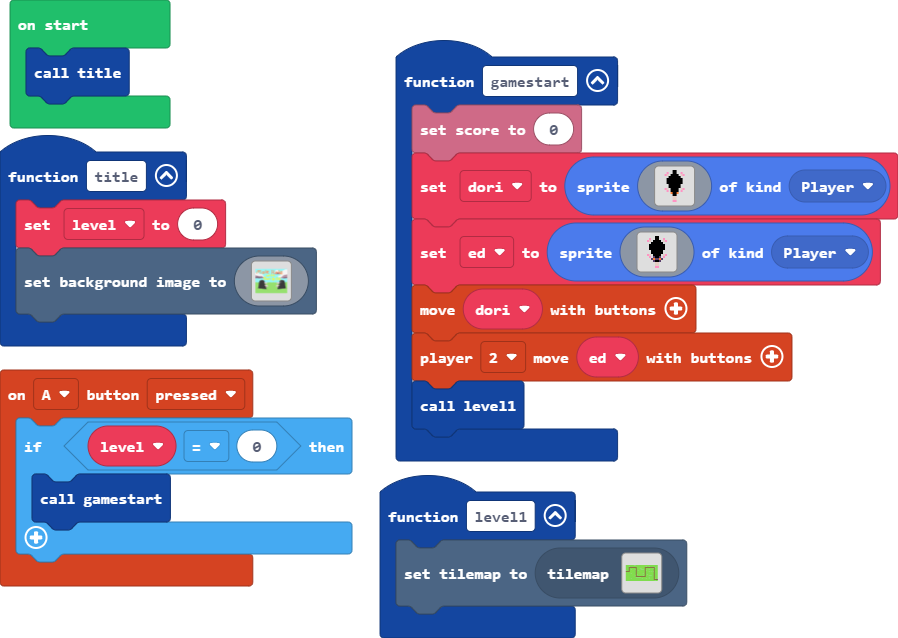
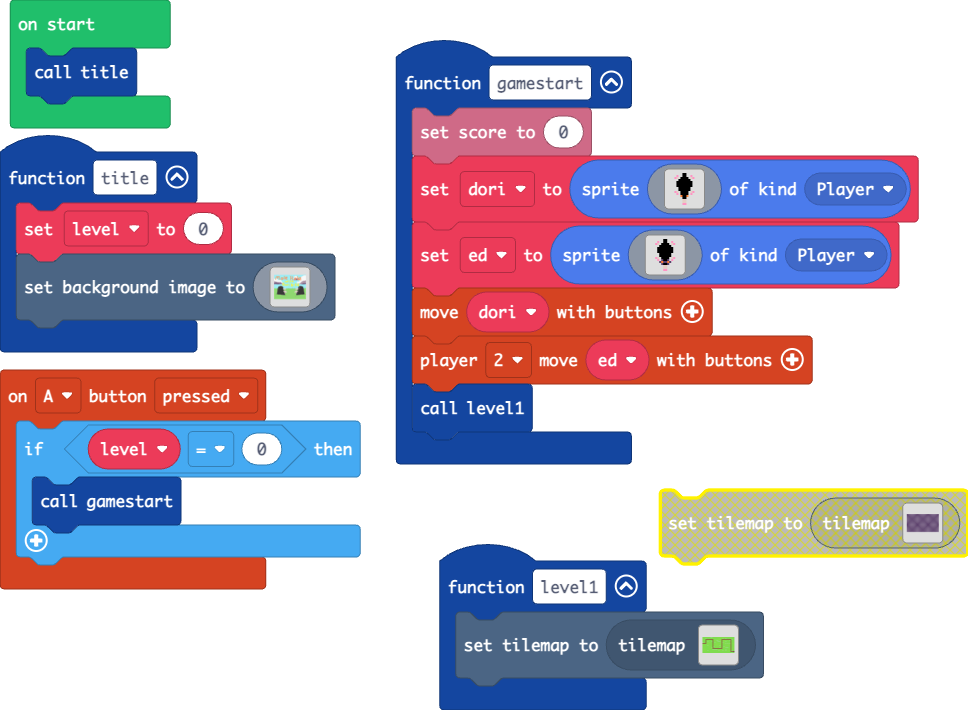
Update main.blocks, tilemap.g.jres, tilemap.g.ts

diff --git a/tilemap.g.ts b/tilemap.g.ts
@@ -20,28 +20,51 @@ namespace myTiles {
     export const tile9 = image.ofBuffer(hex``);
     //% fixedInstance jres blockIdentity=images._tile
     export const tile8 = image.ofBuffer(hex``);
+    //% fixedInstance jres blockIdentity=images._tile
+    export const tile10 = image.ofBuffer(hex``);
+    //% fixedInstance jres blockIdentity=images._tile
+    export const tile11 = image.ofBuffer(hex``);
 
     helpers._registerFactory("tilemap", function(name: string) {
         switch(helpers.stringTrim(name)) {
             case "level1":
[1 lines of base64/hex data omitted]
-................................
-................................
-................................
-................................
-................................
-................................
-................................
-................................
-................................
-................................
-................................
-................................
-................................
-................................
-................................
-................................
+22222222222222222222222222222222
+22222222222222222222222222222222
+222........22222222..........222
+222.222222.22222222.22222222.222
+222.222222.22222222.22222222.222
+222.222222.22222222.22222222.222
+....222222.22222222.22222222.222
+2222222222.22222222.22222222.222
+2222222222.22222222.22222222.222
+2222222222.22222222.22222222.222
+2222222222.22222222.22222222.222
+2222222222..........22222222.222
+2222222222222222222222222222.222
+2222222222222222222222222222.222
+2222222222222222222222222222....
+22222222222222222222222222222222
 `, [myTiles.transparency16,sprites.castle.tileGrass2,sprites.castle.tileGrass1,sprites.castle.tileGrass3,myTiles.tile2,myTiles.tile3,myTiles.tile4,myTiles.tile5,myTiles.tile6,myTiles.tile7,myTiles.tile8], TileScale.Sixteen);
+            case "level2":
[1 lines of base64/hex data omitted]
+.............................
+.............................
+.............................
+.............................
+.............................
+.............................
+.............................
+.............................
+.............................
+.............................
+.............................
+.............................
+.............................
+.............................
+.............................
+.............................
+`, [myTiles.transparency16,myTiles.tile10,myTiles.tile11], TileScale.Sixteen);
         }
         return null;
     })
@@ -67,6 +90,10 @@ namespace myTiles {
             case "tile9":return tile9;
             case "myTile6":
             case "tile8":return tile8;
+            case "myTile8":
+            case "tile10":return tile10;
+            case "myTile9":
+            case "tile11":return tile11;
         }
         return null;
     })
